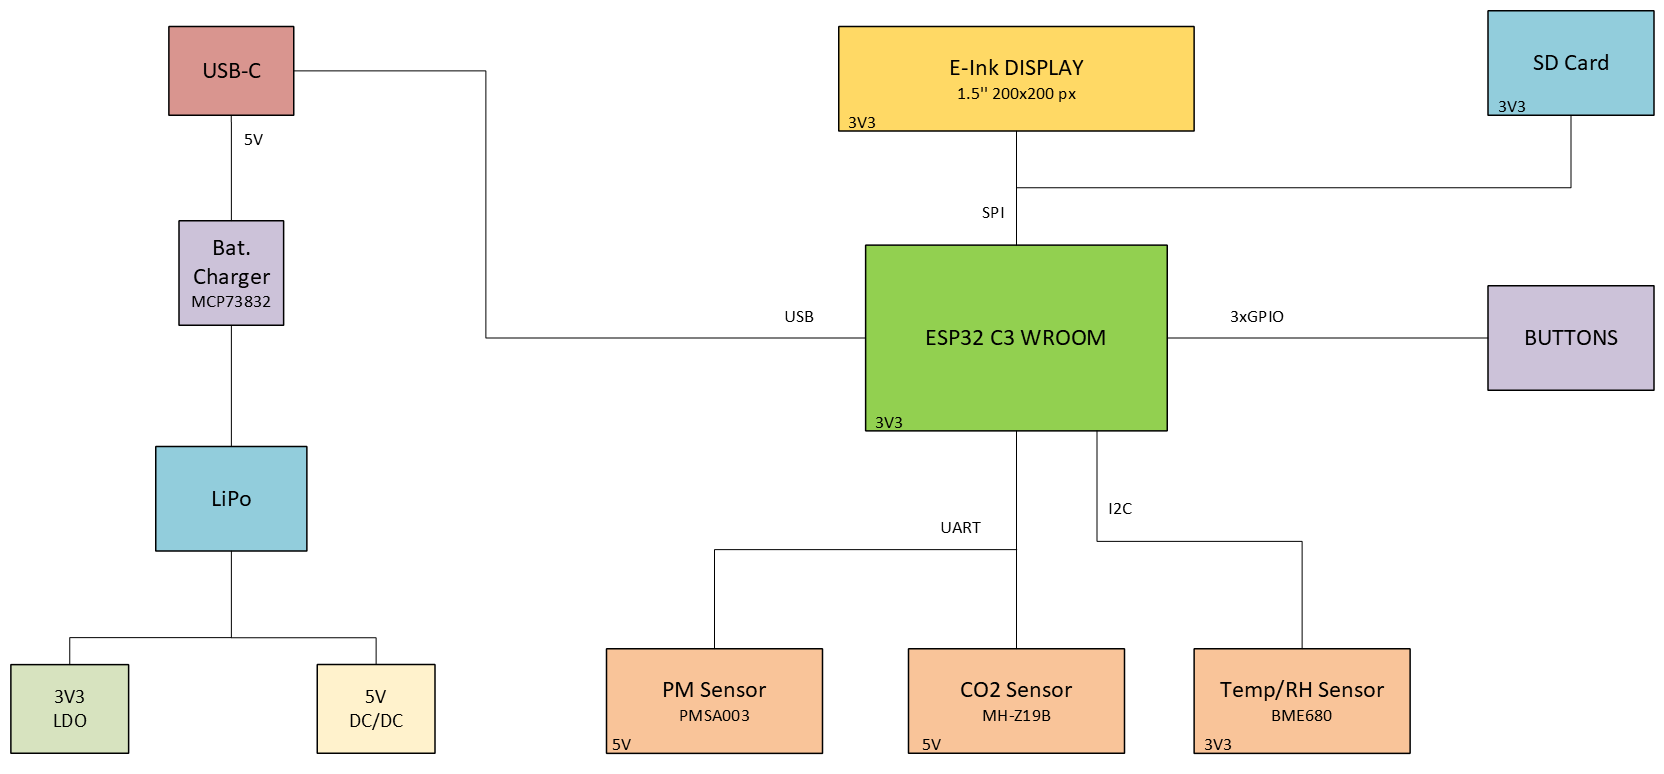
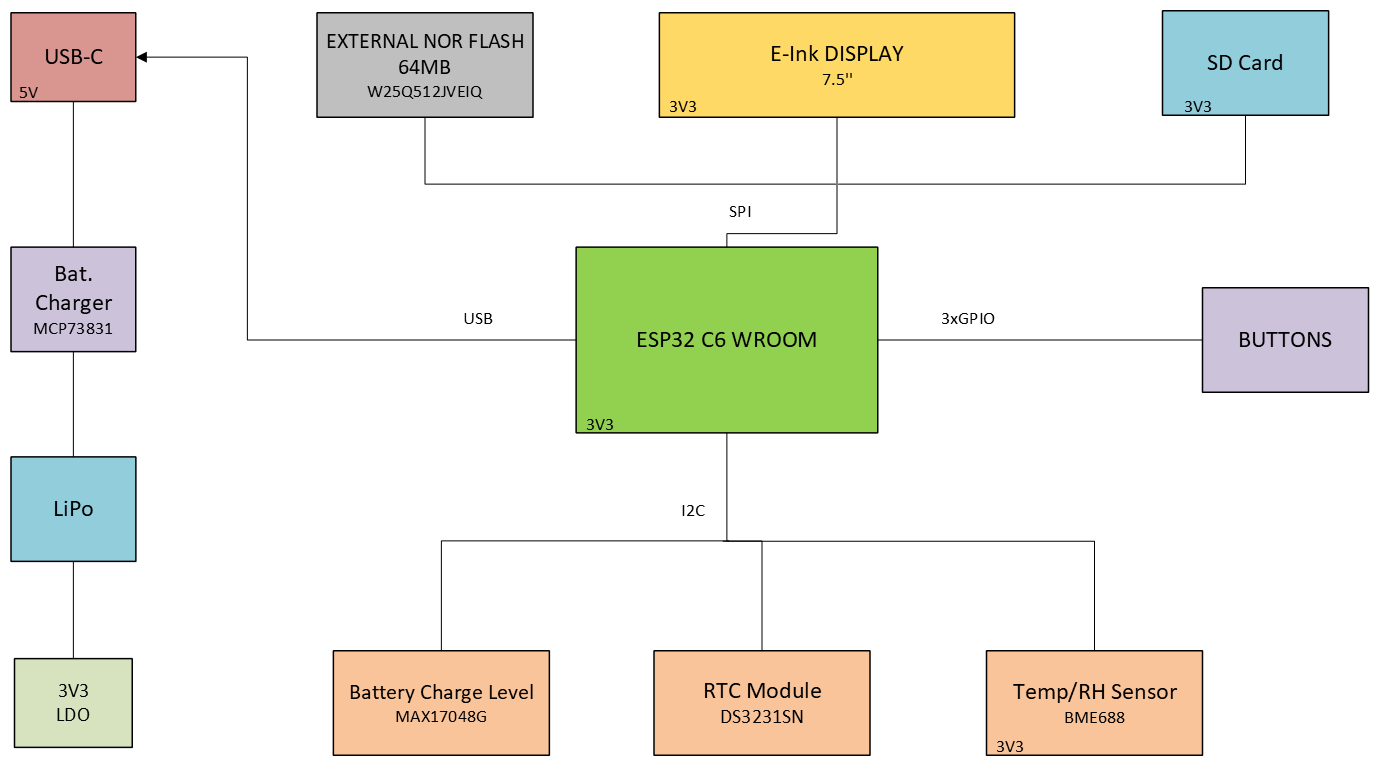
Finished README.

diff --git a/README.md b/README.md
@@ -15,8 +15,132 @@ air pressure and air quality sensors.
 ---
 
 ## Block diagram
-<img src="Images/BlockDiagram.png" style="height: 360px; width: 670px;"/>
+<img src="Images/BlockDiagram.png" style="height: 400px; width: 780px;"/>
 
 ---
 
 ## Hardware description
+### PCB
+* The design of the PCB is centered around an **ESP32 C6 WROOM** microcontroller,
+equipped with a 32-bit RISC-V single-core processor, up to 160MHz.
+    * It offers 320 KB ROM, 512KB HP SRAM, 16KB LP SRAM.
+    * It comes with Wi-Fi 6 and Bluetooth LE connectivity.
+    * Supports GPIO, SPI, UART, I2C, LED PWM.
+
+* The **ESP32** supports *5 power modes*, each with a different power consumption index:
+    * *Active* - between 160 and 260mA
+    * *Modem Sleep* - between 3 and 20mA
+    * *Light Sleep* - 0.8mA
+    * *Deep Sleep* - 10uA
+    * *Hibernation* - 2.5uA
+
+* **Three Buttons** are connected to 3 GPIO pins of the ESP32, allowing the user
+                    to control the device:
+    * *Reset* to **pin 3 - Enable**
+    * *Boot* to **pin 15 - GPIO 9**
+    * *Change* to **pin 23 - GPIO 15**
+
+* **SD Card** socket, which communicates by SPI protocol:
+    * *pin 2 - CD/DAT3* to **pin 4 - GPIO 4**
+    * *pin 3 - CMD* to **pin 7** (MOSI, i.e. Serial Data Out, for SPI)
+    * *pin 7 - DAT0* to **pin 27** (MISO, i.e. Serial Data In, for SPI)
+    * *pin 5* to **pin 6 - clock**
+
+* **E-Paper Display Header**, interfacing the external E-Ink Display, also by SPI.
+
+* **External NOR Flash Memory 64MB**, by SPI too:
+    * *pin 1 - CS* to **pin 12 - GPIO 11**
+    * *pin 2* to **MOSI** (for SPI)
+    * *pin 5* to **MISO** (for SPI)
+    * *pin 6* to **pin 6 - clock**
+
+* **RTC Module** - Real Time Clock, using I2C protocol:
+    * *pin 4 - Reset* to **pin 16 - GPIO 18**
+    * *pin 16 - SCL* to **pin 20 - GPIO 22** (for I2C)
+    * *pin 15 - SDA* to **pin 19 - GPIO 21** (for I2C)
+    * *pin 1* to **pin 9 - GPIO 1** (for 32KHz)
+    * *pin 3 - SQW/INT* to **pin 8 - GPIO 0**
+    * Has a battery backup input for continuous timekeeping.
+
+* **BME688** - Digital low power pressure, temperature, humidity and gas sensor,
+               also interfaced through I2C:
+    * *pin 4 - SCK* to **pin 20 - GPIO 22** (SCL for I2C)
+    * *pin 15 - SDI* to **pin 19 - GPIO 21** (SDA for I2C)
+    * *pins 2, 6, 8* to **pin 17 - GPIO 19** (for I2C PW)
+    * Power consumption is 3.7uA at 1Hz humidity, pressure and temperature scan
+        and 0.15uA in sleep mode.
+
+* **USB-C connector** - for fast, efficient charging.
+
+* **Li-Po Battery Charging Controller** - MCP73831
+
+* **LDO Voltage Regulator**
+
+* **Battery Charge Level** - *MAX17048G+T10*, communicates by I2C interface:
+    * *pin 7 - SCL* to **pin 20 - GPIO 22**
+    * *pin 8 - SDA* to **pin 19 - GPIO 21**
+    * Power consumption is 23uA in Active state and 3uA in Hibernate.
+
+
+### External
+* **7.5" E-Paper Display**
+* **2500mAh Battery - LP584174**
+
+---
+
+## Bill Of Materials
+| Component | Price (EUR) | Count | Provider | Datasheet |
+| :---      | :---        | :---  | :---     | :---      |
+| ESP32 C6| 2.99 | 1 | https://eu.mouser.com/ProductDetail/Espressif-Systems/ESP32-C6-WROOM-1U-N8?qs=1Kr7Jg1SGW%2FzPU4G%252ByMwkA%3D%3D | https://eu.mouser.com/datasheet/2/891/Espressif_Systems_7_11_2023_esp32_c6_wroom_1_wroom-3236277.pdf |
+| USB-C connector| 0.39 | 1 | https://eu.mouser.com/ProductDetail/Same-Sky/UJC-H-G-SMT-2-P6-TR?qs=IKkN%2F947nfApFV8T6rOqww%3D%3D |https://eu.mouser.com/datasheet/2/1628/ujc_h_g_smt_2_p6_tr-3511211.pdf |
+| USBLC6-2SC6Y | 0.44 | 1 | https://eu.mouser.com/ProductDetail/STMicroelectronics/USBLC6-2SC6Y?qs=gNDSiZmRJS%2FOgDexvXkdow%3D%3D | https://eu.mouser.com/datasheet/2/389/usblc6_2sc6y-1852505.pdf |
+| PFMF.050.1 | 0.28 | 1 | https://eu.mouser.com/ProductDetail/Schurter/PFMF.050.2?qs=1auRipcfynCums5v1iucSA%3D%3D | https://eu.mouser.com/datasheet/2/358/typ_PFMF-1275918.pdf |
+| DMG2305UX-7 | 0.19 | 2 | https://eu.mouser.com/ProductDetail/Diodes-Incorporated/DMG2305UX-7?qs=L1DZKBg7t5F%2FNBHrjfxC%252Bg%3D%3D | https://www.diodes.com/assets/Datasheets/DMG2305UX.pdf |
+| SD0805S020S1R0 | 0.3 | 2 | https://eu.mouser.com/ProductDetail/KYOCERA-AVX/SD0805S020S1R0?qs=jCA%252BPfw4LHbpkAoSnwrdjw%3D%3D | https://eu.mouser.com/datasheet/2/40/schottky-3165252.pdf |
+| XC6220A331MR-G | 1.46 | 1 | https://eu.mouser.com/ProductDetail/Torex-Semiconductor/XC6220A331MR-G?qs=AsjdqWjXhJ8ZSWznL1J0gg%3D%3D | https://eu.mouser.com/datasheet/2/760/xc6220-3371556.pdf |
+| TANT Capacitor | 0.68 | 1 | https://eu.mouser.com/ProductDetail/Vishay-Sprague/293D107X9010D2TE3?qs=8dfOI6wKXonVqFgS8%252BQ%2FMA%3D%3D | https://www.vishay.com/docs/40002/293d.pdf |
+| 112A-TAAR-R03 | 1.1 | 1 | https://store.comet.srl.ro/Catalogue/Product/43497/ | https://store.comet.bg/download-file.php?id=27596 |
+| 68uH inductance | 0.9 | 1 | https://eu.mouser.com/ProductDetail/Vishay-Dale/IFDC5050JZER680M?qs=iLKYxzqNS745SePZd8tBoA%3D%3D | https://www.vishay.com/docs/34635/ifdc5050jz.pdf |
+| MBR0530 | 0.14 | 3 | https://eu.mouser.com/ProductDetail/Micro-Commercial-Components-MCC/MBR0530-TP?qs=KFo7JewZbUECRHkxGanrdg%3D%3D | https://eu.mouser.com/datasheet/2/258/MBR0520_MBR0580_SOD123_-2492194.pdf |
+| SI1308EDL-T1-GE3 | 0.42 | 2 | https://eu.mouser.com/ProductDetail/Vishay-Semiconductors/SI1308EDL-T1-GE3?qs=bX1%252BNvsK%2FBramh9tgpOaEw%3D%3D | https://www.vishay.com/docs/63399/si1308edl.pdf |
+| Capacitor 0.1uF | 0.3 | 1 | https://eu.mouser.com/ProductDetail/KYOCERA-AVX/KGF21BR71H104KT?qs=Jm2GQyTW%2FbjYyKCvVWAEOw%3D%3D | https://eu.mouser.com/datasheet/2/40/KGF-3223650.pdf |
+| Capacitor 1uF | 0.13 | 10 | https://eu.mouser.com/ProductDetail/TAIYO-YUDEN/MAASL105CC7105MFCA01?qs=HFfMDpzxxd1Fn%2FInbJA7vw%3D%3D | https://eu.mouser.com/datasheet/2/396/TAIYO_YUDEN_04_27_2024_c_mlcc_A_e1-3451516.pdf |
+| Capacitor 4.7uF | 0.23 | 5 | https://eu.mouser.com/ProductDetail/KYOCERA-AVX/CM05X5R475M16AH?qs=doiCPypUmgFT1xquZKhWtQ%3D%3D | https://eu.mouser.com/datasheet/2/40/Kyocera_AVX_Components_CM025_CM05_CM105_CM21_E217K-2932876.pdf |
+| Capacitor 10 uF | 0.47 | 1 | https://eu.mouser.com/ProductDetail/TDK/CGA3EDX7T1A106M080AU?qs=ZcfC38r4PovL%2FBNBUzzBFw%3D%3D | https://product.tdk.com/system/files/dam/doc/product/capacitor/ceramic/mlcc/catalog/mlcc_automotive_general_en.pdf |
+| Capacitor 100nF | 0.3 | 8 | https://eu.mouser.com/ProductDetail/KYOCERA-AVX/KAM21BR71H104JT?qs=Jm2GQyTW%2Fbic6Zk4McEt6w%3D%3D | https://eu.mouser.com/datasheet/2/40/AutoMLCCKAM-3216307.pdf |
+| Resistor 0.47 | 0.3 | 1 | https://eu.mouser.com/ProductDetail/SEI-Stackpole/RNCL1210FT50L0?qs=17ckDYBRdelVLOJ%252BDFjlUw%3D%3D | https://eu.mouser.com/datasheet/2/385/sei_rncl-3223524.pdf |
+| Resistor 2.2 | 0.13 | 1 | https://eu.mouser.com/ProductDetail/YAGEO/RT1206FRE072R2L?qs=XhSZopxZ3H6S0nYZD83pAA%3D%3D | https://eu.mouser.com/datasheet/2/447/PYu_RT_1_to_0_01_RoHS_L_15-3461507.pdf |
+| Resistor 15 | 0.25 | 1 | https://eu.mouser.com/ProductDetail/Panasonic/ERA-6AHD150V?qs=MNPzkKEzRtQip8ZeekU%252BRw%3D%3D | https://industrial.panasonic.com/cdbs/www-data/pdf/RDM0000/AOA0000C307.pdf |
+Resistor 200 | 0.33 | 1 | https://eu.mouser.com/ProductDetail/TE-Connectivity-Holsworthy/RP73C2B200RFTDF?qs=n4i9pByFsMR0dWGpf721CA%3D%3D | https://eu.mouser.com/datasheet/2/418/10/ENG_DS_1773272_M1-1588495.pdf |
+| Resistor 2k | 0.16 | 1 | https://eu.mouser.com/ProductDetail/Panasonic/ERA-3AED202V?qs=yocZuyCaXdM2cBmjcGkIyA%3D%3D | https://industrial.panasonic.com/cdbs/www-data/pdf/RDM0000/AOA0000C307.pdf |
+| Resistor 5k1 | 0.15 | 2 | https://eu.mouser.com/ProductDetail/Vishay-Beyschlag/MCS04020C5101FE000?qs=wTZ%2FFzl837YsKPLPRIXUbg%3D%3D | https://www.vishay.com/docs/28705/mcx0x0xpro.pdf |
+| Resistor 10k | 0.32 | 16 | https://eu.mouser.com/ProductDetail/SEI-Stackpole/RNWA0612BTE10K0?qs=IKkN%2F947nfD62pDKWE9ZTQ%3D%3D | https://eu.mouser.com/datasheet/2/385/SEI_RNWA-3473840.pdf |
+| Resistor 100K | 0.1 | 1 | https://eu.mouser.com/ProductDetail/Panasonic/ERA-3AED104V?qs=MNPzkKEzRtQIWcmUWL4kjg%3D%3D | https://industrial.panasonic.com/cdbs/www-data/pdf/RDM0000/AOA0000C307.pdf |
+| MCP73831 | 0.75 | 1 | https://eu.mouser.com/ProductDetail/Microchip-Technology/MCP73831-2ACI-MC?qs=hH%252BOa0VZEiBneYTVdpuVdg%3D%3D | https://eu.mouser.com/datasheet/2/268/MCP73831_Family_Data_Sheet_DS20001984H-3441711.pdf |
+| FH34SRJ-24S-0.5SH(99) | 2.6 | 1 | https://eu.mouser.com/ProductDetail/Hirose-Connector/FH34SRJ-24S-0.5SH99?qs=vcbW%252B4%252BSTIpKBl5ap9J8Fw%3D%3D | https://eu.mouser.com/datasheet/2/185/FH34SRJ_24S_0_5SH_99__CL0580_1255_6_99_2DDrawing_0-1615044.pdf |
+| BME688 | 9.86 | 1 | https://eu.mouser.com/ProductDetail/Bosch-Sensortec/BME688?qs=IS%252B4QmGtzzqQoVDscqwx3A%3D%3D | https://eu.mouser.com/datasheet/2/783/bst_bme688_fl000-2307034.pdf |
+| BD5229G-TR | 0.75 | 1 | https://eu.mouser.com/ProductDetail/ROHM-Semiconductor/BD5229G-TR?qs=4kLU8WoGk0vvnhrrYwdszw%3D%3D | https://fscdn.rohm.com/en/products/databook/datasheet/ic/power/voltage_detector/bd52xxg-e.pdf |
+| MAX17048G+T10 | 4.28 | 1 | https://eu.mouser.com/ProductDetail/Analog-Devices-Maxim-Integrated/MAX17048G%2bT10?qs=D7PJwyCwLAoGnnn8jEPRBQ%3D%3D | https://eu.mouser.com/datasheet/2/609/MAX17048_MAX17049-3469099.pdf |
+| DS3231SN# | 14.91 | 1 | https://eu.mouser.com/ProductDetail/Analog-Devices-Maxim-Integrated/DS3231SN?qs=1eQvB6Dk1vhUlr8%2FOrV0Fw%3D%3D | https://eu.mouser.com/datasheet/2/609/DS3231-3421123.pdf |
+| CPH3225A | 2.33 | 1 | https://eu.mouser.com/ProductDetail/Seiko-Semiconductors/CPH3225A?qs=3etwrb1wR%252BhUOph6lAO7eg%3D%3D | https://eu.mouser.com/datasheet/2/360/Seiko_Instruments_MicroBattery_E_20230330_2024Jan_-3561061.pdf |
+| Qwiic | 3.75 | 1 | https://eu.mouser.com/ProductDetail/Adafruit/4208?qs=PzGy0jfpSMtbScLbr0L5dw%3D%3D | https://learn.adafruit.com/introducing-adafruit-stemma-qt/technical-specs |
+| PGB1010603MR | 0.4 | 6 | https://eu.mouser.com/ProductDetail/Littelfuse/PGB1010603MR?qs=gu7KAQ731URLg4GSnNNN7Q%3D%3D | https://www.littelfuse.com/assetdocs/pulseguard-esd-suppressors-pgb1-datasheet?assetguid=8a337998-d54d-466b-be4e-dc5bcd1f9321 |
+| W25Q512JVEIQ | 5.84 | 1 | https://eu.mouser.com/ProductDetail/Winbond/W25Q512JVEIQ?qs=l7cgNqFNU1jw6svr3at6tA%3D%3D | https://eu.mouser.com/datasheet/2/949/Winbond_W25Q512JV_Datasheet-3240039.pdf |
+| LP584174 Battery| 6.4 | 1 | https://www.tme.eu/en/details/accu-lp584174_cl/rechargeable-batteries/cellevia-batteries/l584174/ | https://www.tme.eu/Document/e0683d8c34e6d878124489f71bffb6ee/cel0014.pdf |
+| E-Paper Display | 48 | 1 | https://eu.mouser.com/ProductDetail/Microtips-Technology/MT-DEPG0750BNU590F1?qs=DPoM0jnrROVRMMTX0WzK%252Bw%3D%3D | https://eu.mouser.com/datasheet/2/271/MT_DEPG0750BNU590F1_V2_7-1894282.pdf |
+
+
+* **Total Cost** : 124.66 EUR
+
+---
+
+## Implementation steps
+* Firstly, I drew the schematic, with all the components.
+* I drew the shape of the PCB, then I placed the components, all of them on the
+top plane, taking into account the position they will occupy in the external case.
+* I drew the ground plane for both top and bottom, then I used the autorouter to
+shape the routes. I manually routed those that were left as airwires.
+* I set the power routes to a width of 0.3mm and solved all the issues from the
+DRC check, like the angles of the routes.
+* After fine-tuning the silkscreen, I pushed the PCB to 3D and placed it into
+the case.
